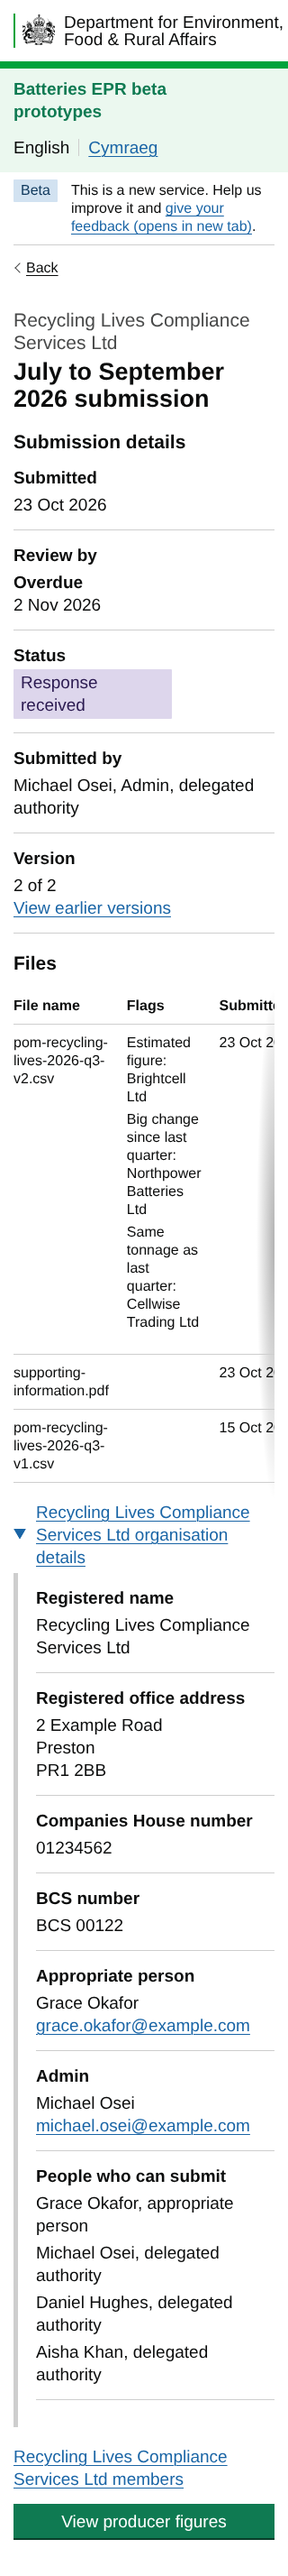
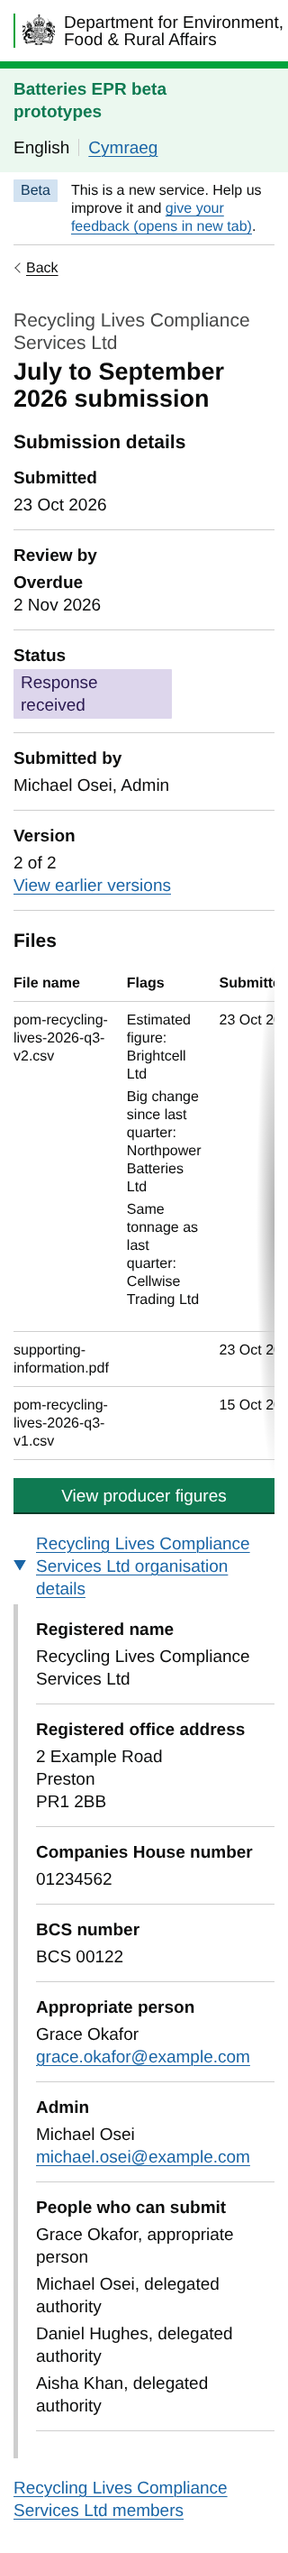
EB-325 brief: Submitted by shows name and role only; View producer figures above the organisation details and members
Claude-Session: https://claude.ai/code/session_014pBrKbgm5Jfdzkw7drhM9g

diff --git a/app/views/changes/add-pom-submission-page.html b/app/views/changes/add-pom-submission-page.html
@@ -16,7 +16,7 @@
 <p class="govuk-body"><strong class="govuk-tag govuk-tag--green">New</strong></p>
 <p class="govuk-body">Regulators need to see one scheme's submission for a quarter, who submitted it and whether they could, and the scheme's details if they need them. There are two versions for the team to look at and say what we can build. We'd rather test one.</p>
 <p class="govuk-body"><strong>Brief version: 1 page (Marie and Jen)</strong></p>
-<ul class="govuk-list govuk-list--bullet"><li>Submission details: submitted, review by, status (the tag is in the list), who submitted it and their authority, and the version (&quot;2 of 2&quot;, with a link to earlier versions)</li><li>One files table, full width, in 16px text and the MOJ scrollable pane: file name, the flags written out against the file they're in, submitted (the same word as the list), and View, which opens the file in a new tab (they can download it from there). Who submitted is in the details above, so it's not in the table</li><li>The scheme's organisation details in a details component named after the scheme (for example &quot;Recycling Lives Compliance Services Ltd organisation details&quot;), view only. Emails are links. The people who can submit are in the list, everyone, however many</li><li>A link to the scheme's members below it (for example &quot;Recycling Lives Compliance Services Ltd members&quot;)</li><li>View producer figures last: it's the main thing to do next</li><li>&quot;Admin&quot; for the top of the scheme's account</li><li>From &quot;View submission&quot; on the brief list. Scheme names on that list aren't links any more, so two links in a row don't go to the same place</li></ul>
+<ul class="govuk-list govuk-list--bullet"><li>Submission details: submitted, review by, status (the tag is in the list), who submitted it and their role (&quot;Tom Fielding, Admin&quot;), and the version (&quot;2 of 2&quot;, with a link to earlier versions)</li><li>One files table, full width, in 16px text and the MOJ scrollable pane: file name, the flags written out against the file they're in, submitted (the same word as the list), and View, which opens the file in a new tab (they can download it from there). Who submitted is in the details above, so it's not in the table</li><li>View producer figures straight after the files: it's the main thing to do next. The organisation details and members come after it, as they're needed less</li><li>The scheme's organisation details in a details component named after the scheme (for example &quot;Recycling Lives Compliance Services Ltd organisation details&quot;), view only. Emails are links. The people who can submit are in the list, everyone, however many</li><li>A link to the scheme's members below it (for example &quot;Recycling Lives Compliance Services Ltd members&quot;)</li><li>&quot;Admin&quot; for the top of the scheme's account</li><li>From &quot;View submission&quot; on the brief list. Scheme names on that list aren't links any more, so two links in a row don't go to the same place</li></ul>
 <p class="govuk-body"><strong>Full version: 2 pages (Rich)</strong></p>
 <ul class="govuk-list govuk-list--bullet"><li>Page 1, the submission: Rich's extras too (days left, BCS number, tonnage and producers in the file), flags written out with the scheme's reason, and a table of every file uploaded</li><li>Page 2, organisation details: Change links, so we can ask the business whether regulators can change them, and the people who can submit, with delegated authority dates</li><li>&quot;Super user&quot; for the top of the scheme's account</li><li>From &quot;View submission&quot; (page 1) or a scheme name (page 2) on the full list</li></ul>
 <p class="govuk-body"><strong>Both versions</strong></p>

diff --git a/app/views/regulator/pom-submission/brief.html b/app/views/regulator/pom-submission/brief.html
@@ -15,7 +15,8 @@
     scheme, view only, with emails as links and the people who can submit in
     the list (everyone, however many)
   - A link to the scheme's members, below it
-  - View producer figures: the main call to action, last on the page
+  - View producer figures: the main call to action, straight after the files.
+    The organisation details and members come after it: they're needed less
   "Admin", not "Super user" (Jen's word)
 
   The data: app/data/pom-submission-details.js (dummy).
@@ -50,7 +51,7 @@
 {% set versionHtml %}{{ s.version }} {{ words.versionOf }} {{ s.versions }}{% if s.versions > 1 %}<br><a href="{{ notBuiltHref }}" class="govuk-link">{{ words.viewEarlierVersionsLink }}</a>{% endif %}{% endset %}
 {% set detailRows = (detailRows.concat([
   { key: { text: words.status }, value: { html: statusHtml } },
-  { key: { text: words.submittedBy }, value: { text: s.submittedBy.name + ", " + words.superUser + ", " + words.delegatedAuthority } },
+  { key: { text: words.submittedBy }, value: { text: s.submittedBy.name + ", " + words.superUser } },
   { key: { text: words.version }, value: { html: versionHtml } }
 ])) %}
 
@@ -133,11 +134,11 @@
 <div class="govuk-grid-row">
   <div class="govuk-grid-column-two-thirds">
 
+    {{ govukButton({ text: words.viewProducerFiguresButton, href: notBuiltHref }) }}
+
     {{ govukDetails({ summaryText: s.scheme + " " + words.schemeDetails, html: schemeHtml }) }}
 
     <p class="govuk-body"><a href="{{ notBuiltHref }}" class="govuk-link">{{ s.scheme }} {{ words.membersLink }}</a></p>
-
-    {{ govukButton({ text: words.viewProducerFiguresButton, href: notBuiltHref }) }}
 
   </div>
 </div>

diff --git a/app/content/regulator/pom-submission-brief.md b/app/content/regulator/pom-submission-brief.md
@@ -31,7 +31,7 @@ Submitted by
 ## Super user (the top of the scheme's account)
 Admin
 
-## Delegated authority (after the person's role, in Submitted by)
+## Delegated authority (in People who can submit)
 delegated authority
 
 ## Version
